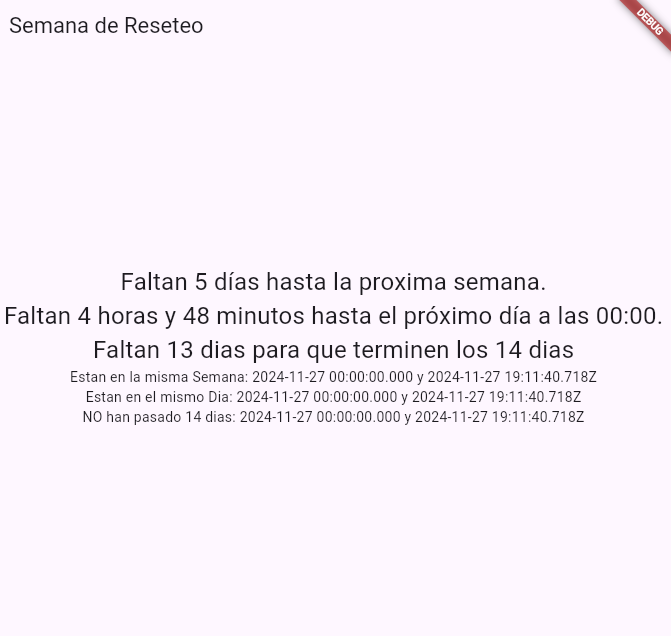
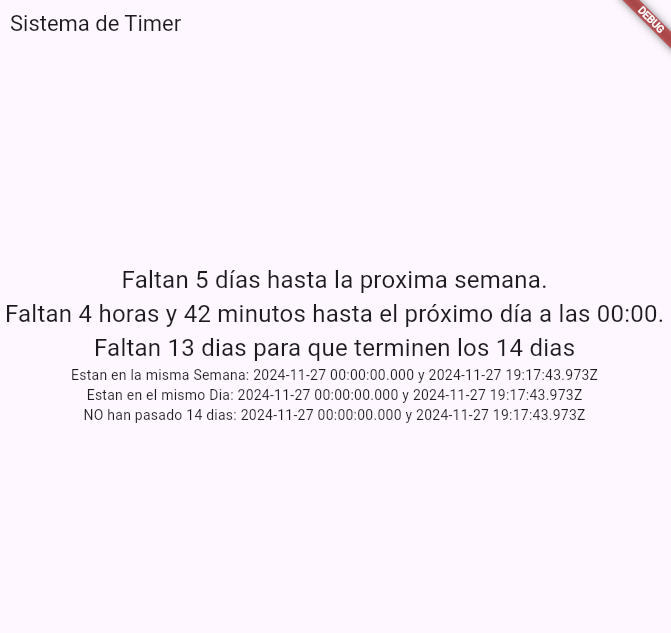
pequeños detalles

diff --git a/lib/my_app.dart b/lib/my_app.dart
@@ -10,7 +10,7 @@ class MyApp extends StatelessWidget {
       title: 'Flutter App',
       home: Scaffold(
         appBar: AppBar(
-          title: const Text('Semana de Reseteo'),
+          title: const Text('Sistema de Timer'),
         ),
         body: const Center(
           child: CountdownScreen(),

diff --git a/README.md b/README.md
@@ -2,7 +2,7 @@
 
 En este proyecto se implementa una funcionalidad de cuenta regresiva(countdown) en Flutter que calcula fechas relativas como el tiempo hasta el próximo lunes, el tiempo hasta el siguiente día a medianoche, y verifica si han pasado ciertos días desde una fecha dada. Utiliza el formato UTC para asegurar la consistencia de los cálculos en todas las zonas horarias. 
 
-Este Timer es eficiente y para usos no exhaustivos, es útil para cuando se necesite usar timer para desencadenar acciones o mostrar tiempos de la forma más eficiente sin necesidad de tener corriendo algo en background.
+Este Timer es eficiente y para usos no exhaustivos, es útil para cuando se necesite usar timer para desencadenar acciones o mostrar tiempos de la forma más eficiente sin necesidad de tener corriendo algo en background. Usar siempre métodos como DateTime.utc() o DateTime.now().toUtc() para usar horarios globales.
 
 ![Screen Timer](/assets/Captura.PNG)
 
